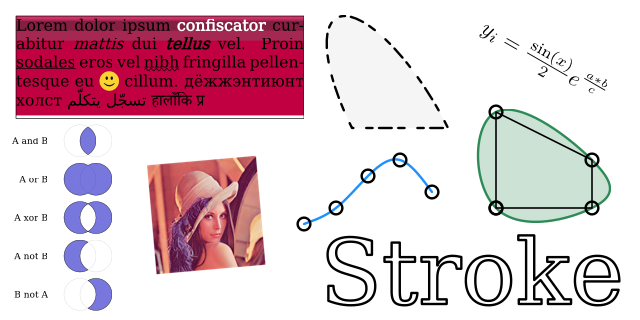
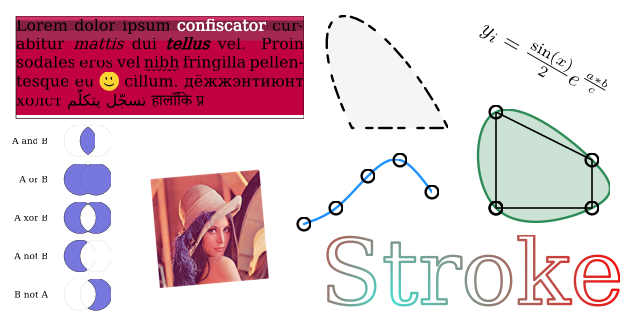
Add radial gradient to canvas preview, see #207

Changed region(s): [[0.5, 0.7188, 0.9688, 0.9688], [0.2188, 0.4688, 0.4375, 0.9062], [0.0312, 0.0312, 0.4688, 0.0625]]

diff --git a/preview.go b/preview.go
@@ -64,7 +64,7 @@ func DrawPreviewWithAssets(ctx *Context, latin, arabic, devanagari, lenna []byte
 	rt := NewRichText(face)
 	rt.Add(face, "Lorem dolor ipsum ")
 	rt.Add(fontLatin.Face(pt, White, FontBold, FontNormal), "confiscator")
-	rt.Add(face, " cur\u200babitur ")
+	rt.Add(face, " cur\u00ADabitur ")
 	rt.Add(fontLatin.Face(pt, Black, FontItalic, FontNormal), "mattis")
 	rt.Add(face, " dui ")
 	rt.Add(fontLatin.Face(pt, Black, FontBold|FontItalic, FontNormal), "tellus")
@@ -72,7 +72,7 @@ func DrawPreviewWithAssets(ctx *Context, latin, arabic, devanagari, lenna []byte
 	rt.Add(fontLatin.Face(pt, Black, FontRegular, FontNormal, FontUnderline), "sodales")
 	rt.Add(face, " eros vel ")
 	rt.Add(fontLatin.Face(pt, Black, FontRegular, FontNormal, FontSineUnderline), "nibh")
-	rt.Add(face, " fringilla pellen\u200btesque eu ")
+	rt.Add(face, " fringilla pellen\u00ADtesque eu ")
 
 	// Smiley face
 	c2 := New(6.144, 6.144)
@@ -123,6 +123,11 @@ func DrawPreviewWithAssets(ctx *Context, latin, arabic, devanagari, lenna []byte
 	ctx.DrawText(x, y, text)
 
 	// Draw the word Stroke being stroked
+	gradient := NewRadialGradient(Point{120.0, 5.0}, 0.0, Point{140.0, 5.0}, 60.0)
+	gradient.Add(0.0, Turquoise)
+	gradient.Add(1.0, Red)
+	ctx.SetFillPattern(gradient)
+
 	face = fontLatin.Face(80.0, Black, FontRegular, FontNormal)
 	p, _, _ := face.ToPath("Stroke")
 	ctx.DrawPath(100, 5, p.Stroke(0.75, RoundCap, RoundJoin, Tolerance))
